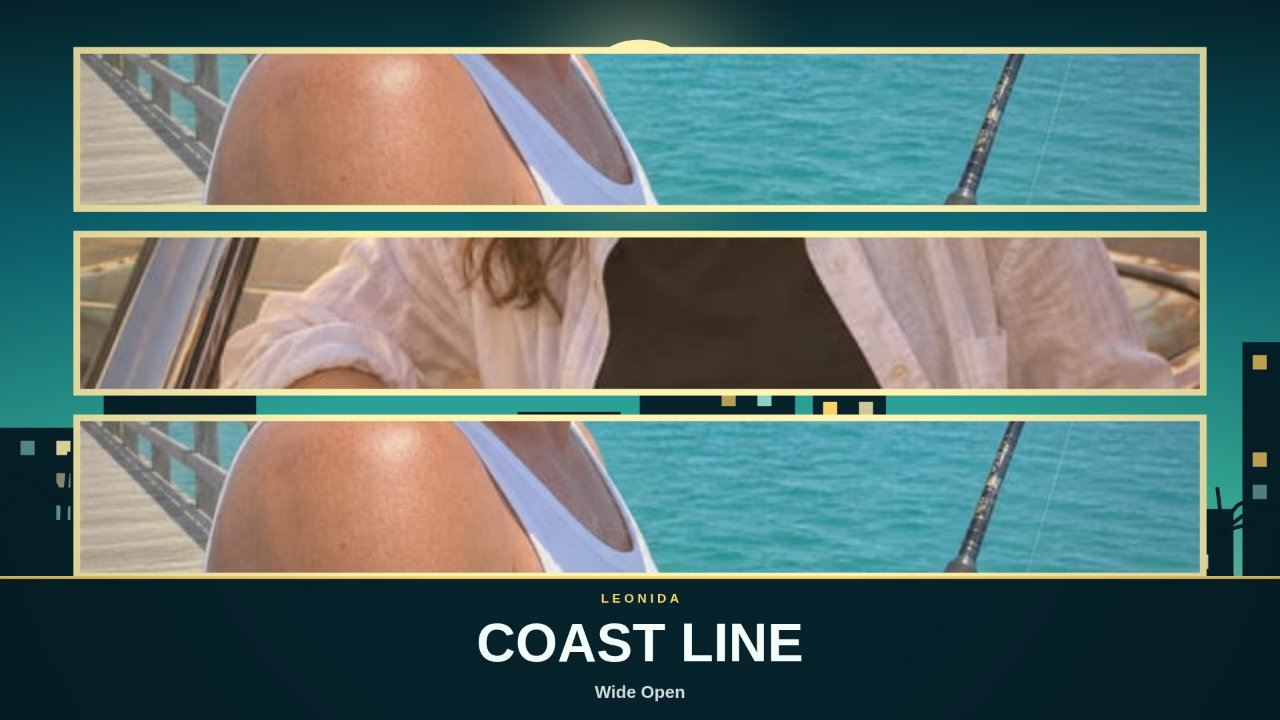
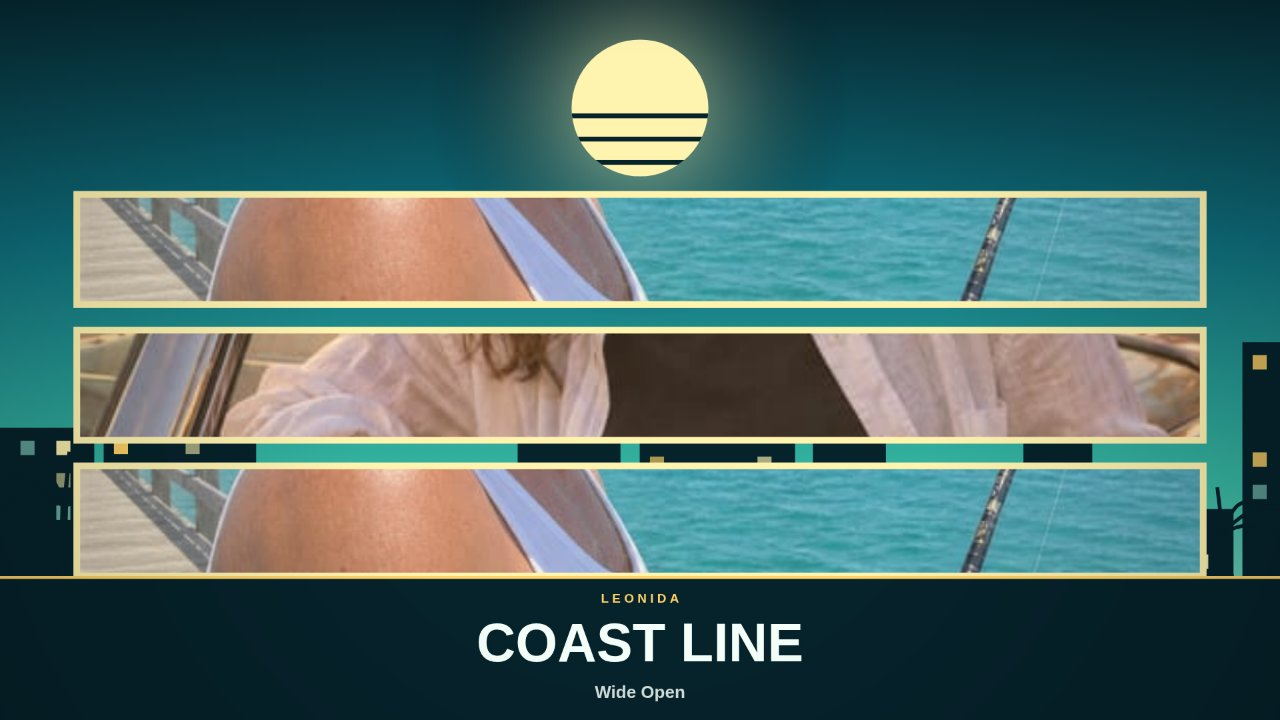
Strip layout: start panels below the sun disc so the whole sun shows

diff --git a/app/src/studio.js b/app/src/studio.js
@@ -198,10 +198,14 @@ function panelRects(layout, w, h) {
     ];
   }
   if (layout === 'strip') {
-    const ph = (bandTop - h * 0.07 - gap * 2) / 3;
+    // The strips start below the sun's disc: the disc's bottom edge sits
+    // near 0.25 of the height, so at 0.27 the whole sun shows above the
+    // first strip instead of hiding behind it.
+    const top = h * 0.27;
+    const ph = (bandTop - top - gap * 2) / 3;
     return [0, 1, 2].map((i) => ({
       x: m,
-      y: h * 0.07 + i * (ph + gap),
+      y: top + i * (ph + gap),
       w: w - m * 2,
       h: ph,
     }));
